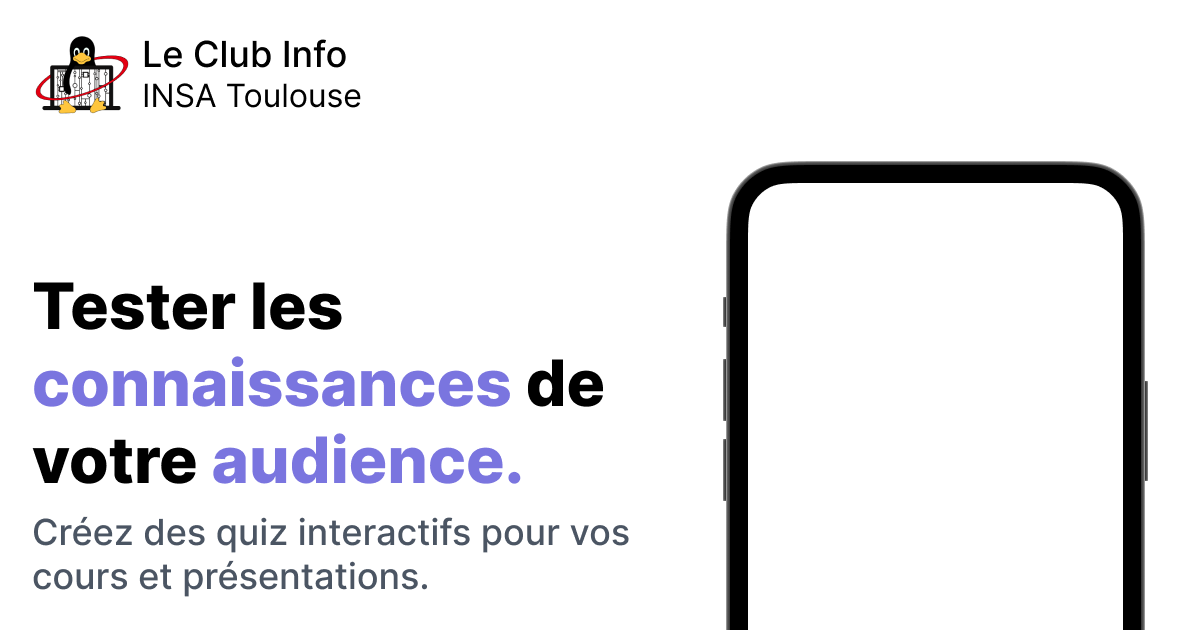
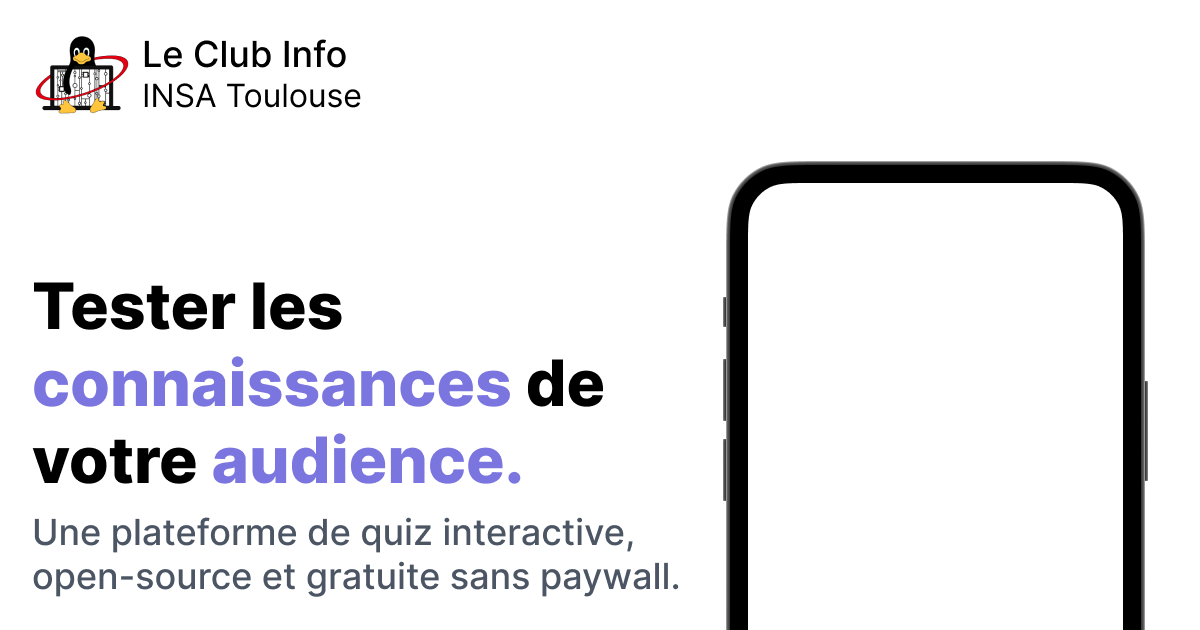
chore: Change og image and fix typo

Changed region(s): [[0.0308, 0.8143, 0.555, 0.9651]]

diff --git a/src/pages/index.tsx b/src/pages/index.tsx
@@ -73,7 +73,7 @@ export default function Home() {
               </div>
 
               <h1 className="font-display mt-5 text-4xl font-bold text-gray-900 sm:text-5xl lg:text-6xl xl:text-7xl">
-                Une plateforme quiz interactive
+                Une plateforme de quiz interactive
               </h1>
               <p className="mx-auto mt-8 max-w-2xl text-gray-700 sm:text-lg md:text-xl lg:text-2xl ">
                 Le QCM est une plateforme de quiz interactive open-source et
